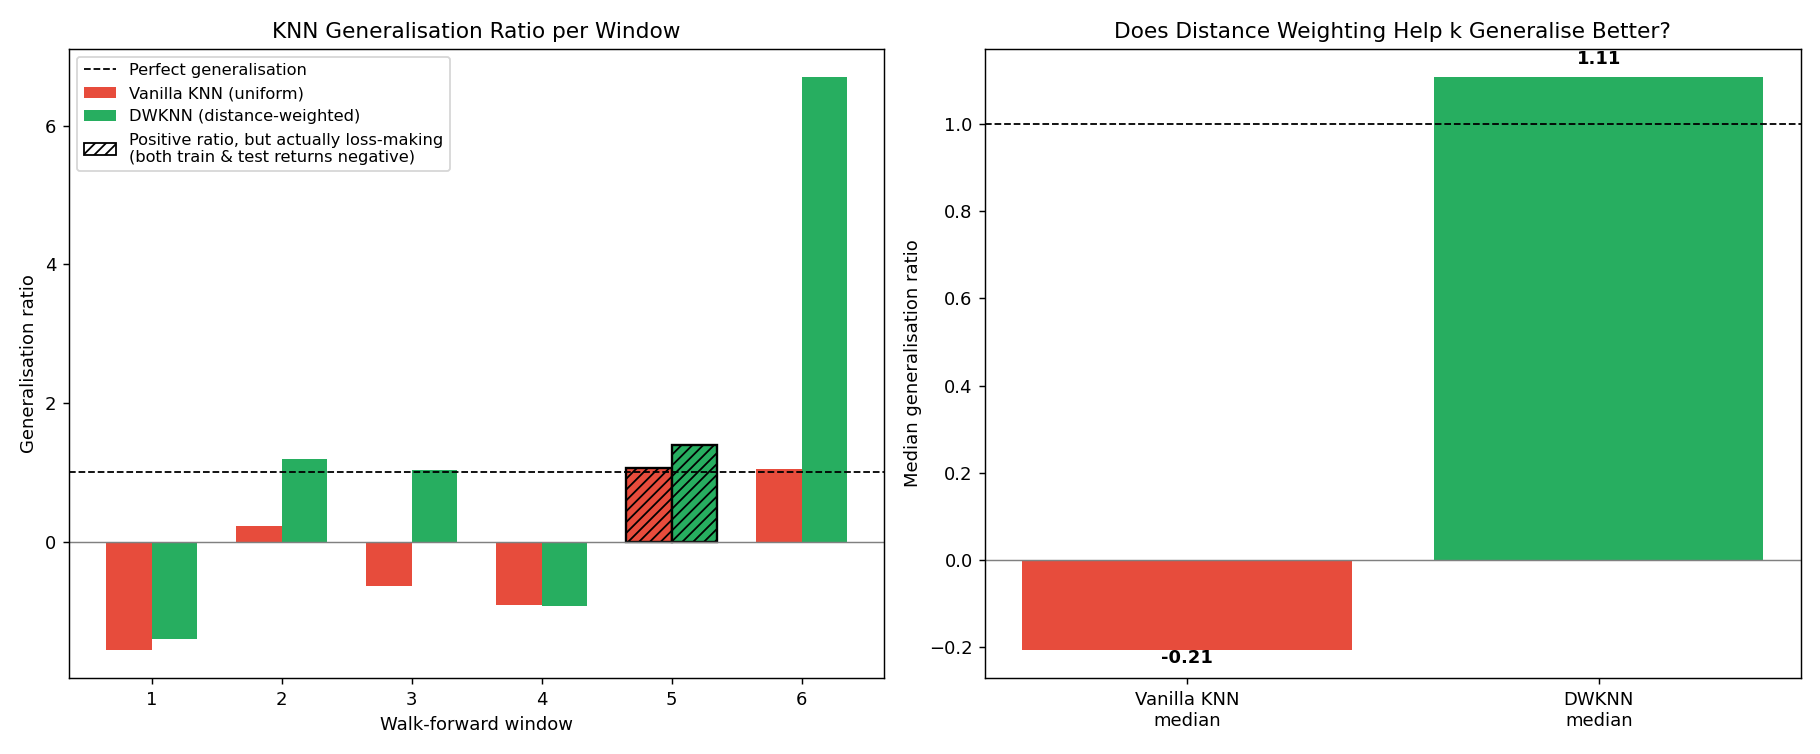
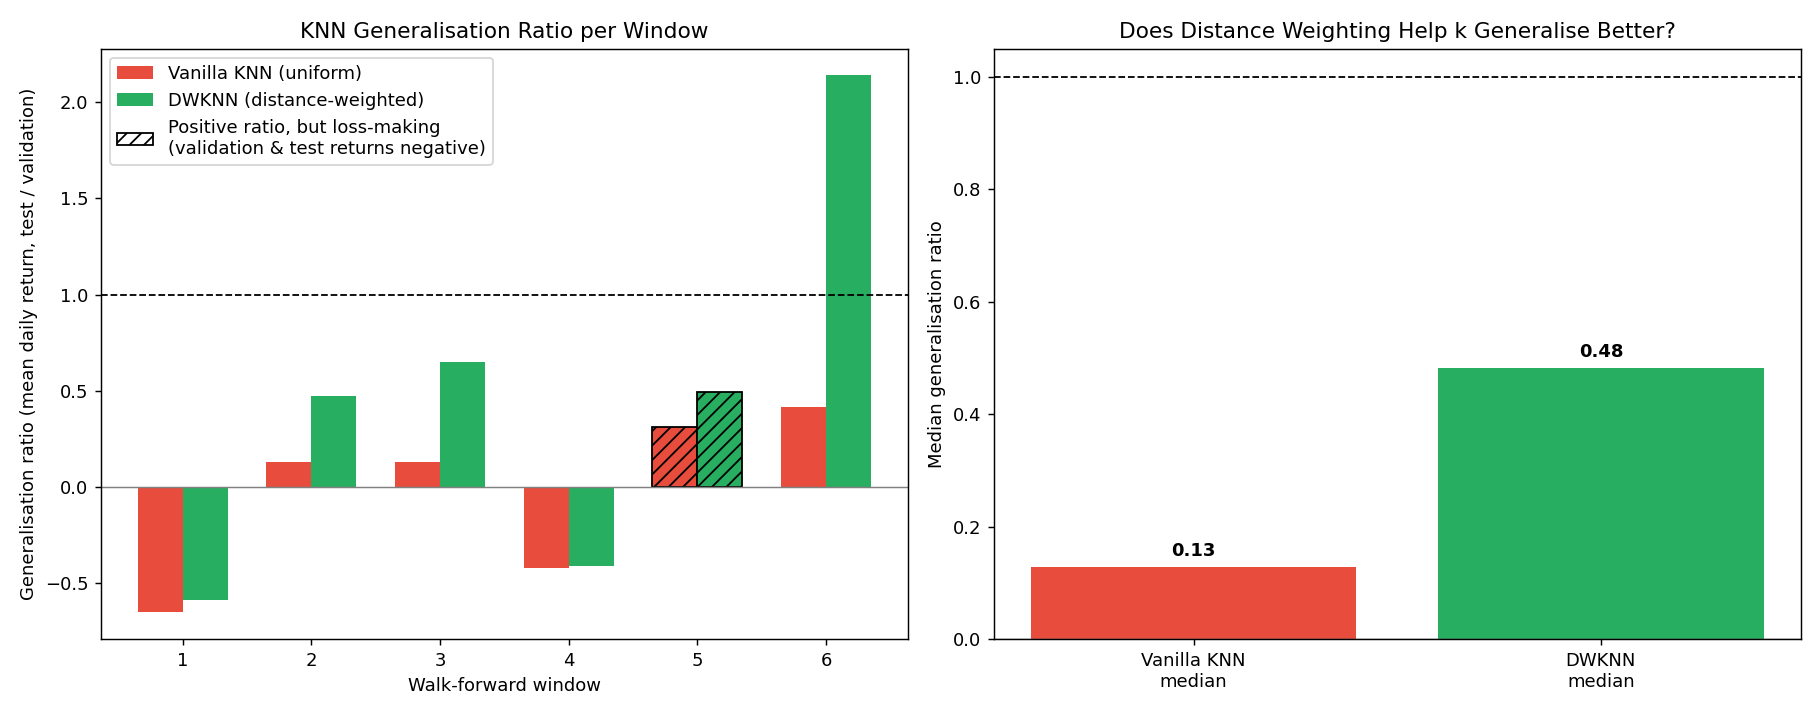
Add files via upload

Changed region(s): [[0.0, 0.0308, 1.0, 0.9846]]

diff --git a/knn_overfitting.py b/knn_overfitting.py
@@ -147,26 +147,44 @@ def run_walk_forward(windows, weights, cost):
         split = int(len(train) * 0.8)
         sub_train, sub_val = train.iloc[:split], train.iloc[split:]
 
-        best_k, best_val_ret = None, -np.inf
+        best_k, best_val_ret, best_val_series = None, -np.inf, None
         for k in K_GRID:
-            ret, _ = backtest_knn(sub_train, sub_val, k, weights, cost=cost)
+            ret, series = backtest_knn(sub_train, sub_val, k, weights, cost=cost)
             if ret > best_val_ret:
-                best_val_ret, best_k = ret, k
+                best_val_ret, best_k, best_val_series = ret, k, series
 
         # refit on the FULL training window with the selected k, then
         # test on the genuinely unseen out-of-sample window
-        train_ret, train_returns_series = backtest_knn(train, train.iloc[split:], best_k, weights, cost=cost)
-        test_ret, test_returns_series = backtest_knn(train, test, best_k, weights, cost=cost)
-        gen_ratio = test_ret / best_val_ret if best_val_ret != 0 else np.nan
+        test_ret, test_series = backtest_knn(train, test, best_k, weights, cost=cost)
+
+        # FIX 1 (look-ahead in the "train" Sharpe): the previous version
+        # refit on the full training window and then predicted on
+        # train.iloc[split:], i.e. on points the model had already seen.
+        # Each point was its own nearest neighbour at distance 0, so with
+        # weights="distance" the prediction was the true next-day return
+        # (perfect foresight). The in-sample Sharpe is now computed on the
+        # validation series that was actually used to select k.
+        #
+        # FIX 2 (horizon mismatch in the generalisation ratio): the
+        # previous ratio divided a 250-day cumulative test return by a
+        # 100-day cumulative validation return, so identical daily
+        # performance gave a ratio of ~2.5, not 1. The ratio now compares
+        # mean daily net returns, so 1.0 really means "same performance".
+        val_mean = np.mean(best_val_series)
+        test_mean = np.mean(test_series)
+        gen_ratio = test_mean / val_mean if val_mean != 0 else np.nan
 
         records.append({
             "window": w_idx + 1,
             "best_k": best_k,
-            "train_return": best_val_ret,
-            "test_return": test_ret,
+            "val_return": best_val_ret,          # cumulative, 100 days
+            "test_return": test_ret,             # cumulative, 250 days
+            "val_mean_daily": val_mean,
+            "test_mean_daily": test_mean,
             "gen_ratio": gen_ratio,
-            "train_sharpe": sharpe_ratio(train_returns_series),
-            "test_sharpe": sharpe_ratio(test_returns_series),
+            "both_negative": (val_mean < 0) and (test_mean < 0),
+            "train_sharpe": sharpe_ratio(best_val_series),
+            "test_sharpe": sharpe_ratio(test_series),
         })
     return pd.DataFrame(records)
 
@@ -188,15 +206,26 @@ print(f"DWKNN        - mean gen ratio: {results_distance['gen_ratio'].mean():.3f
       f"std: {results_distance['gen_ratio'].std():.3f}")
 
 print("\n--- Sharpe ratios (annualised, per-window average) ---")
-print(f"Vanilla KNN  - train Sharpe: {results_uniform['train_sharpe'].mean():.2f}, "
+print(f"Vanilla KNN  - validation Sharpe: {results_uniform['train_sharpe'].mean():.2f}, "
       f"test Sharpe: {results_uniform['test_sharpe'].mean():.2f}")
-print(f"DWKNN        - train Sharpe: {results_distance['train_sharpe'].mean():.2f}, "
+print(f"DWKNN        - validation Sharpe: {results_distance['train_sharpe'].mean():.2f}, "
       f"test Sharpe: {results_distance['test_sharpe'].mean():.2f}")
 print("\nPer-window Sharpe detail:")
 print("Vanilla:")
 print(results_uniform[["window", "train_sharpe", "test_sharpe"]].to_string(index=False))
 print("DWKNN:")
 print(results_distance[["window", "train_sharpe", "test_sharpe"]].to_string(index=False))
+
+print("\nPer-window daily mean returns (validation vs test):")
+for name, res in [("Vanilla", results_uniform), ("DWKNN", results_distance)]:
+    print(name)
+    print(res[["window", "val_mean_daily", "test_mean_daily", "gen_ratio", "both_negative"]].to_string(index=False))
+
+for name, res in [("Vanilla KNN", results_uniform), ("DWKNN", results_distance)]:
+    n_pos_sharpe = (res["test_sharpe"] > 0).sum()
+    n_misleading = res["both_negative"].sum()
+    print(f"{name}: positive test-Sharpe windows {n_pos_sharpe}/{len(res)}, "
+          f"positive ratio but loss-making (both negative) {n_misleading}/{len(res)}")
 
 n_neg_uniform = (results_uniform["test_return"] < 0).sum()
 n_neg_distance = (results_distance["test_return"] < 0).sum()
@@ -213,14 +242,23 @@ fig, axes = plt.subplots(1, 2, figsize=(14, 5.5))
 
 x = results_uniform["window"]
 width = 0.35
-axes[0].bar(x - width/2, results_uniform["gen_ratio"], width, label="Vanilla KNN (uniform)", color="#E74C3C")
-axes[0].bar(x + width/2, results_distance["gen_ratio"], width, label="DWKNN (distance-weighted)", color="#27AE60")
+bars_u = axes[0].bar(x - width/2, results_uniform["gen_ratio"], width, label="Vanilla KNN (uniform)", color="#E74C3C")
+bars_d = axes[0].bar(x + width/2, results_distance["gen_ratio"], width, label="DWKNN (distance-weighted)", color="#27AE60")
+for bars, res in [(bars_u, results_uniform), (bars_d, results_distance)]:
+    for bar, flag in zip(bars, res["both_negative"]):
+        if flag:
+            bar.set_hatch("///")
+            bar.set_edgecolor("black")
+from matplotlib.patches import Patch
+handles, labels = axes[0].get_legend_handles_labels()
+handles.append(Patch(facecolor="white", edgecolor="black", hatch="///"))
+labels.append("Positive ratio, but loss-making\n(validation & test returns negative)")
 axes[0].axhline(1.0, color="black", linestyle="--", linewidth=1, label="Perfect generalisation")
 axes[0].axhline(0.0, color="grey", linewidth=0.8)
 axes[0].set_xlabel("Walk-forward window")
-axes[0].set_ylabel("Generalisation ratio")
+axes[0].set_ylabel("Generalisation ratio (mean daily return, test / validation)")
 axes[0].set_title("KNN Generalisation Ratio per Window")
-axes[0].legend()
+axes[0].legend(handles, labels)
 axes[0].set_xticks(x)
 
 methods = ["Vanilla KNN\nmedian", "DWKNN\nmedian"]
